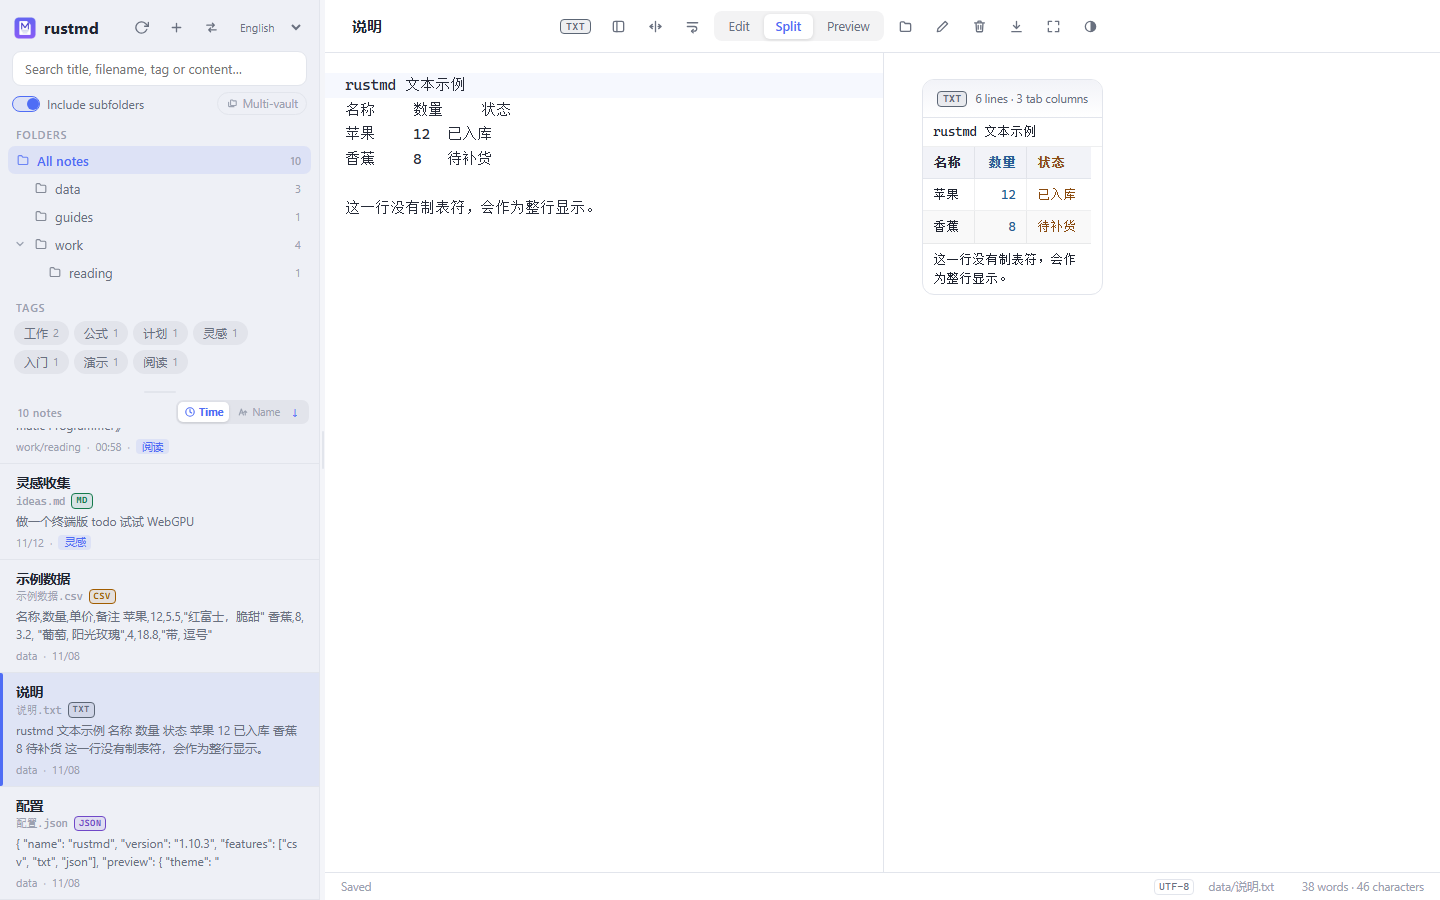
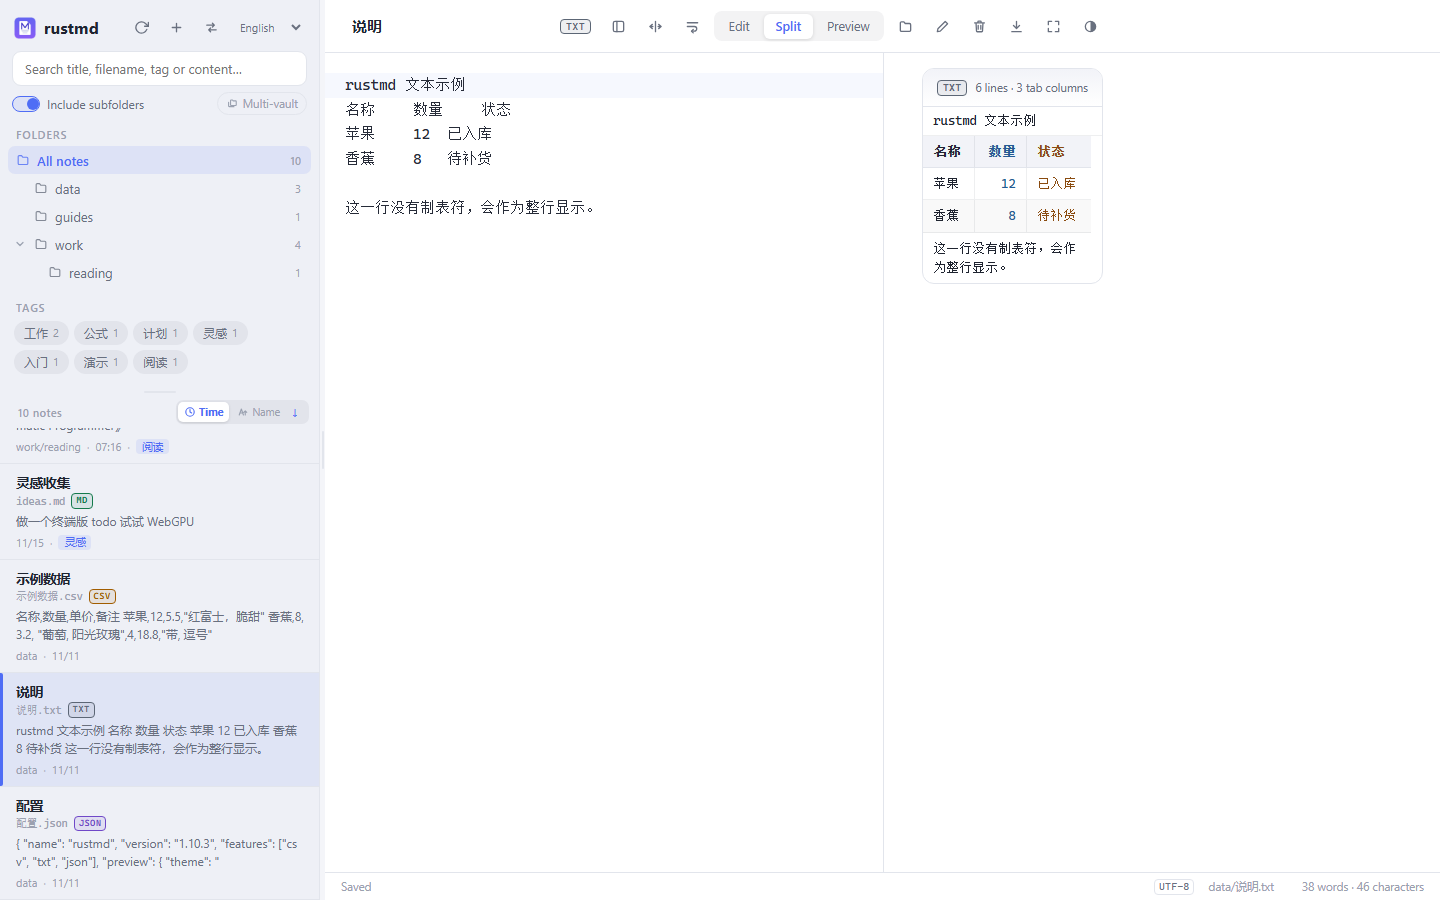
release: v1.10.6 — data preview scrollbar fix
Fix the CSV/TXT table scroll geometry: the old fixed 100vh - 170px
height ignored the card head, top scrollbar, preview padding and card
margin, so a one-page table still showed inner and outer vertical
scrollbars.

- Measure the real space below the card head/top bar, set the table
  scroll box to it, and distribute row heights with fractional pixels.
- Data mode uses a tighter preview frame and no card bottom margin.
- Re-measure on window/divider resizes and view-mode changes.
- Regenerate README screenshots for the new data-preview layout.
- Bump package.json, Cargo.toml/tauri.conf.json, Cargo.lock and
  package-lock.json to 1.10.6; add CHANGELOG, RELEASE_NOTES and audit
  sections, and refresh the version examples.

Verified with npm run check, a clean 10-note WebView2 selftest, and
CDP measurements of 18-row wide tables at 1440x900 / 803px content
height (no vertical scrollbars); 25-row tables still scroll normally.

Changed region(s): [[0.625, 0.0933, 0.75, 0.3111]]

diff --git a/AUDIT_REPORT.md b/AUDIT_REPORT.md
@@ -1,10 +1,28 @@
 # rustmd 代码审计报告
 
-**审计日期**：2026-11-14（v1.10.5 依赖复审；v1.10.4 全量审计；v1.10.3、v1.10.2、v1.10.1、v1.10.0、v1.9.0、v1.8.1 与 v1.8.0 为历史记录）
-**审计对象**：`rustmd` v1.10.5（Rust + Tauri 2；Markdown / HTML / CSV / TXT / JSON 笔记）
-**审计方式**：对 GitHub 合并的 5 个 Dependabot PR 做组合树复审与修复；静态检查（fmt/clippy/ESLint/repo/version）+ 60 个前端单测 + 77 个 Rust 单测 + Vite build + Windows 真实 WebView2 E2E（10 篇示例、HTML/PNG/PDF）+ 真实 9 页导出 PDF 页码压印验证；macOS arm64 与 Linux 由 GitHub Actions 编译/打包验证。
+**审计日期**：2026-11-16（v1.10.6 数据预览布局复审；v1.10.5 依赖复审；v1.10.4 全量审计；v1.10.3、v1.10.2、v1.10.1、v1.10.0、v1.9.0、v1.8.1 与 v1.8.0 为历史记录）
+**审计对象**：`rustmd` v1.10.6（Rust + Tauri 2；Markdown / HTML / CSV / TXT / JSON 笔记）
+**审计方式**：对数据预览的滚动几何做浏览器 CDP 实测与修复；静态检查（fmt/clippy/ESLint/repo/version）+ 60 个前端单测 + 77 个 Rust 单测 + Vite build + Windows 真实 WebView2 E2E（10 篇示例、HTML/PNG/PDF）；macOS arm64 与 Linux 由 GitHub Actions 编译/打包验证。
 
-## v1.10.5 依赖升级复审（当前版本）
+## v1.10.6 数据预览滚动条修复（当前版本）
+
+CSV/TXT 预览表格此前用固定的 `100vh - 170px` 估算滚动区高度，没有计入数据卡片
+标题、顶部横向滚动条、预览内边距和卡片底边距；行高分配又用 `Math.ceil`，每行最多
+多加 1px。结果是一页刚好放下的 18 行表格仍出现表格内纵向滚动条，并把预览容器撑出
+外层滚动条。
+
+修复后：
+
+- `dataview.js` 测量卡片标题/顶部横条/预览内边距/卡片边距之后的真实可用高度，
+  用小数像素分配行高，并监听预览容器尺寸和顶部横条可见性变化。
+- 数据模式收紧预览上下留白（15px / 8px）并去掉卡片底部 margin，表格可正好用满
+  一页；导出/离屏容器仍保持内容高度，不继承表格滚动框。
+- CDP 实测 18 行×8 列宽表在 1440×900 和内容高度 803px 下无纵向滚动条；17/19 行
+  正常，25 行才出现合理的表格内滚动；Markdown ↔ CSV 与编辑/分栏/预览模式切换均
+  正常。README 截图已同步重生成。
+- `npm run check` 全绿，真实 WebView2 E2E 10 篇示例通过。未涉及安全边界或文件格式。
+
+## v1.10.5 依赖升级复审（历史）
 
 GitHub 上合并了 5 个 Dependabot PR（libloading 0.9、lopdf 0.47、getrandom 0.4、
 tauri-plugin-opener 2.7.3，以及 marked/vite/opener 的前端组），但 libloading 与

diff --git a/docs/RELEASING.md b/docs/RELEASING.md
@@ -29,26 +29,26 @@
 README/AGENTS/CHANGELOG/RELEASE_NOTES/AUDIT_REPORT 中的版本号、测试计数和截图描述一起核对。发布前先跑：
 
 ```bash
-node scripts/check-version.mjs v1.10.5
-node scripts/release-notes.mjs v1.10.5 >/dev/null
+node scripts/check-version.mjs v1.10.6
+node scripts/release-notes.mjs v1.10.6 >/dev/null
 ```
 
 ```bash
 npm run check
 npm run selftest        # 有真实 WebView 的机器上跑完整 E2E
 git add -A
-git commit -m "release: v1.10.5"
-git tag v1.10.5
+git commit -m "release: v1.10.6"
+git tag v1.10.6
 
 # GitHub（remote 名 github）与 GitLab（remote 名 origin）都要推送
 git push github master
-git push github v1.10.5
+git push github v1.10.6
 git push origin master
-git push origin v1.10.5
+git push origin v1.10.6
 ```
 
 推 GitHub tag 会自动触发 `release` workflow；也可以在 Actions 里手动触发并填入
-`v1.10.5`。GitLab 是镜像仓库，不负责构建，但必须同步 commit + tag。
+`v1.10.6`。GitLab 是镜像仓库，不负责构建，但必须同步 commit + tag。
 
 `ci.yml` 会在每个 PR/push 上提前执行 Windows 签名 + 绿色 zip 和 macOS app bundle +
 ad-hoc 签名的打包 dry run，并把 selftest 报告校验放在发布前；打包脚本的回归不应等到
@@ -97,7 +97,7 @@ Release 都能拿到许可证，publish job 还会把仓库根目录的 `LICENSE
 Windows zip 的目录结构：
 
 ```
-rustmd-1.10.5-win-x64/
+rustmd-1.10.6-win-x64/
 ├── rustmd.exe
 ├── README.md / README.en.md
 ├── CHANGELOG.md
@@ -180,17 +180,17 @@ AppImage 运行依赖 FUSE；无 FUSE 时用 `--appimage-extract-and-run`。
 sha256sum -c SHA256SUMS-linux.txt
 
 # macOS
-shasum -a 256 -c rustmd-1.10.5-macos-arm64.dmg.sha256
+shasum -a 256 -c rustmd-1.10.6-macos-arm64.dmg.sha256
 
 # Windows PowerShell
-(Get-FileHash .\rustmd-1.10.5-win-x64-portable.zip -Algorithm SHA256).Hash
-Get-Content .\rustmd-1.10.5-win-x64-portable.zip.sha256
+(Get-FileHash .\rustmd-1.10.6-win-x64-portable.zip -Algorithm SHA256).Hash
+Get-Content .\rustmd-1.10.6-win-x64-portable.zip.sha256
 ```
 
 Windows 签名检查：
 
 ```powershell
-Get-AuthenticodeSignature .\rustmd-1.10.5-win-x64\rustmd.exe | Format-List
+Get-AuthenticodeSignature .\rustmd-1.10.6-win-x64\rustmd.exe | Format-List
 ```
 
 macOS 签名检查：

diff --git a/RELEASE_NOTES-1.10.6.md b/RELEASE_NOTES-1.10.6.md
@@ -1,0 +1,42 @@
+# rustmd 1.10.6
+
+这是 CSV / TXT 数据预览的布局修复版：功能和文件格式与 1.10.5 相同，修复了一页
+表格刚好放得下、右侧却出现多余纵向滚动条的问题。
+
+## 修复
+
+- **数据表格的滚动区高度改为实测**：此前用固定的 `100vh - 170px` 猜测高度，没有
+  计入数据卡片标题、顶部横向滚动条、预览内边距和卡片底边距，导致表格被撑得比
+  预览区更高：表格内部出现纵向滚动条，预览区外层也被撑出滚动条。
+- **行高不再累积误差**：旧代码用 `Math.ceil` 分配拉伸后的行高，每行最多多加
+  1px；现在使用小数像素，18 行表格不会再被顶出滚动区。
+- **数据模式用满一页**：预览上下留白收紧为 15px / 8px，去掉卡片底部 margin；
+  表格正好填满可用高度。
+- **跟随布局变化重新测量**：窗口缩放、拖动分栏/侧栏、切换编辑/分栏/预览模式后
+  都会重新计算；Markdown ↔ CSV/TXT 切换会恢复普通预览留白。
+
+## 验证
+
+- 浏览器 CDP 实测 18 行×8 列宽表在 1440×900 与内容高度 803px 下：表格内外均无
+  纵向滚动条；17/19 行正常填满，25 行才出现合理的表格内滚动。
+- `npm run check` 全绿：60 个前端单测、77 个 Rust 测试、fmt/clippy/ESLint、
+  仓库/版本检查与 Vite 生产构建。
+- Windows 真实 WebView2 E2E 10 篇示例通过；README 截图已按新布局重新生成。
+
+## Linux 兼容性
+
+- Linux deb/AppImage 仍与 1.10.5 一致，在 **Ubuntu 26.04** 上构建，运行基线为
+  **Ubuntu 24.04+ / glibc 2.39**，需要 GTK 3 与 WebKitGTK 4.1 运行库。
+- Ubuntu 22.04 用户请继续使用 1.10.4，或按 `LINUX_BUILD.md` 从源码构建。
+
+## 下载
+
+| 平台 | 文件 |
+| --- | --- |
+| Windows | `rustmd-1.10.6-win-x64-portable.zip` |
+| Linux | `rustmd_1.10.6_amd64.deb` / `rustmd_1.10.6_amd64.AppImage` |
+| macOS | `rustmd-1.10.6-macos-arm64.dmg` |
+
+Windows 为自签名（SmartScreen 仍提示未知发布者）；macOS 为 **ad-hoc 签名、未公证**。
+每个平台资产旁有 `.sha256`（Linux 另有 `SHA256SUMS-linux.txt`），Release 里还有
+合并的 `SHA256SUMS.txt`。

diff --git a/CHANGELOG.md b/CHANGELOG.md
@@ -5,7 +5,7 @@
 格式基于 [Keep a Changelog](https://keepachangelog.com/zh-CN/1.1.0/)，
 版本号遵循 [语义化版本](https://semver.org/lang/zh-CN/)。
 
-## [Unreleased]
+## [1.10.6] - 2026-11-16
 
 ### 修复（Fixed）
 
@@ -13,6 +13,16 @@
   `100vh - 170px` 猜测高度，没有计入卡片标题、顶部横向滚动条、预览内边距和
   卡片底边距，导致一页刚好放下的表格仍出现内层和/或预览外层滚动条。现在按
   预览容器的实际可用高度设置滚动区，数据模式收紧上下留白并让表格填满空间。
+- **行高拉伸累积误差**：旧代码用 `Math.ceil` 分配行高，最多每行多加 1px；
+  改为小数像素，18 行表格不会再被顶出滚动区。
+- 数据视图在窗口缩放、拖动分栏/侧栏、切换编辑/分栏/预览模式后会重新测量高度。
+
+### 质量（Quality）
+
+- `npm run check` 全绿；真实 WebView2 E2E 10 篇示例通过。
+- 用浏览器 CDP 实测 18 行×8 列宽表在 1440×900 与内容高度 803px 下无纵向
+  滚动条；17/19 行正常，25 行才出现合理的表格内滚动。
+- README 截图已按新的数据预览布局重新生成。
 
 ## [1.10.5] - 2026-11-14
 

diff --git a/AGENTS.md b/AGENTS.md
@@ -23,8 +23,8 @@ this file is the developer/agent contract.
 | Rust unit tests | `npm run test:rust` (`cargo test`) |
 | E2E self-test (dev, real WebView) | `RUSTMD_SELFTEST_OUT=<fresh temp dir> npm run selftest` |
 | Verify the self-test report | `npm run selftest:check`（脚本默认加 `--require-html --require-data`；也可直接调 checker） |
-| Version/tag preflight | `node scripts/check-version.mjs v1.10.5` |
-| Release notes preflight | `node scripts/release-notes.mjs v1.10.5 >/dev/null` |
+| Version/tag preflight | `node scripts/check-version.mjs v1.10.6` |
+| Release notes preflight | `node scripts/release-notes.mjs v1.10.6 >/dev/null` |
 | Windows sign + portable zip | `npx tauri build --no-bundle`, then `powershell -File scripts/sign-win.ps1` and `scripts/build-win-zip.ps1` |
 | Regenerate app icons (PNG/ICO/ICNS) | `npm run icons` |
 | Regenerate README screenshots | `node scripts/capture-screenshots.mjs` (needs `npm run dev` + headless Edge with CDP on :9333; see the script header) |

diff --git a/README.md b/README.md
@@ -12,7 +12,7 @@
 [![License: GPL-3.0-or-later](https://img.shields.io/badge/license-GPL--3.0--or--later-blue.svg)](LICENSE)
 [![Stars](https://img.shields.io/github/stars/riverzhou/rustmd?style=social)](https://github.com/riverzhou/rustmd/stargazers)
 
-当前版本 **1.10.5** · GPL-3.0-or-later · [更新日志](CHANGELOG.md) · [下载最新版](https://github.com/riverzhou/rustmd/releases/latest)
+当前版本 **1.10.6** · GPL-3.0-or-later · [更新日志](CHANGELOG.md) · [下载最新版](https://github.com/riverzhou/rustmd/releases/latest)
 
 [![Windows portable](https://img.shields.io/badge/Windows-portable%20zip-0078D6?logo=windows&logoColor=white)](https://github.com/riverzhou/rustmd/releases/latest)
 [![Linux .deb / AppImage](https://img.shields.io/badge/Linux-.deb%20%2F%20AppImage-FCC624?logo=linux&logoColor=black)](https://github.com/riverzhou/rustmd/releases/latest)

diff --git a/README.en.md b/README.en.md
@@ -12,7 +12,7 @@
 [![License: GPL-3.0-or-later](https://img.shields.io/badge/license-GPL--3.0--or--later-blue.svg)](LICENSE)
 [![Stars](https://img.shields.io/github/stars/riverzhou/rustmd?style=social)](https://github.com/riverzhou/rustmd/stargazers)
 
-Current version **1.10.5** · GPL-3.0-or-later · [Changelog](CHANGELOG.md) · [Latest release](https://github.com/riverzhou/rustmd/releases/latest)
+Current version **1.10.6** · GPL-3.0-or-later · [Changelog](CHANGELOG.md) · [Latest release](https://github.com/riverzhou/rustmd/releases/latest)
 
 [![Windows portable](https://img.shields.io/badge/Windows-portable%20zip-0078D6?logo=windows&logoColor=white)](https://github.com/riverzhou/rustmd/releases/latest)
 [![Linux .deb / AppImage](https://img.shields.io/badge/Linux-.deb%20%2F%20AppImage-FCC624?logo=linux&logoColor=black)](https://github.com/riverzhou/rustmd/releases/latest)
